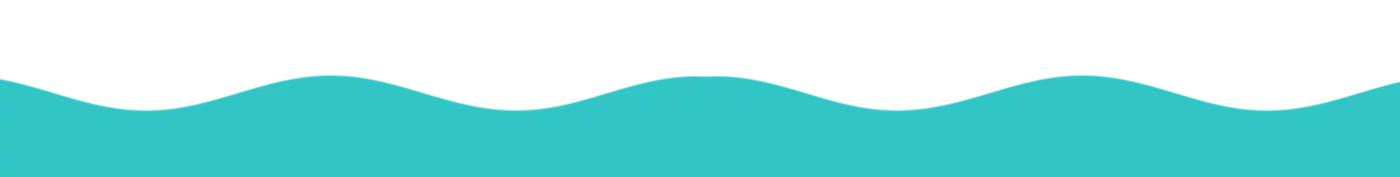
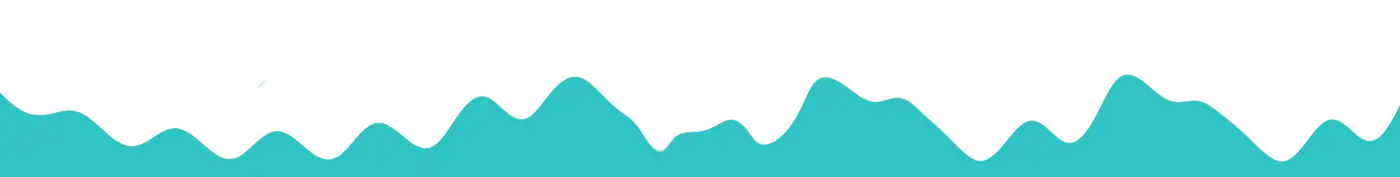
index.html updated

Changed region(s): [[0.0, 0.4237, 1.0, 0.904]]

diff --git a/scooter/index.html b/scooter/index.html
@@ -113,30 +113,68 @@
     </div>
 
     <!-- forecast -->
-    <div class=" forecast">
-      <!-- wave separator -->
-      <!-- <img src="images/wave2.svg" alt="" style="position: absolute; top:0; left: 0; width: 100%;"> -->
+    <div class="forecast">
+
+      <!-- forecast title -->
+
       <h2>Weather</h2>
-      <i class="fa-solid fa-temperature-high"></i>
-      <!-- today forecast -->
-      <div class="today-forecast">
-        <h3>Today</h3>
-        <div id="today-weather-icon"></div>
-        <p id="temperature">
-        <p id="description"></p>
-        <p id="humidity"></p>
+      <i class="fa-solid fa-temperature-three-quarters"></i>
+
+
+      <!-- wave separator -->
+      <img class="wave-separator" src="images/wave-1.webp" alt="Wave separator">
+
+      <!-- forecast-content -->
+      <div class="forecast-content">
+
+        <!-- today forecast -->
+        <div class="today-forecast">
+          <h3>Today</h3>
+          <div>
+            <div id="today-weather-icon"></div>
+            <p id="temperature">
+            <p id="description"></p>
+            <p id="humidity"></p>
+          </div>
+        </div>
+
+
+
+        <!-- next day forecast -->
+        <div class="next-day-forecast">
+          <h3>Tomorrow</h3>
+          <div>
+            <div id="next-day-weather-icon"></div>
+            <p id="next-day-temperature"></p>
+            <p id="next-day-description"></p>
+            <p id="next-day-humidity"></p>
+          </div>
+        </div>
+
+
       </div>
 
-      <!-- next day forecast -->
-      <div class="next-day-forecast">
-        <h3>Tomorrow</h3>
-        <div>
-          <div id="next-day-weather-icon"></div>
-          <p id="next-day-temperature"></p>
-          <p id="next-day-description"></p>
-          <p id="next-day-humidity"></p>
-        </div>
-      </div>
+      <!-- polaroid 2 -->
+      <!-- <div class="forecast-image-content-2">
+        <picture>
+          <source media="(max-width: 400px)" srcset="images/man-ride-atv-at-sand-small.webp">
+          <source media="(max-width: 600px)" srcset="images/man-ride-atv-at-sand-medium.webp">
+          <img src="images/man-ride-atv-at-sand-large.webp" alt="Man ride an atv at sand" width="800" height="800"
+            loading="lazy">
+        </picture>
+        <figcaption>Discover the adrenaline in the sand dunes!</figcaption>
+      </div> -->
+
+      <!-- polaroid 1 -->
+      <!-- <div class="forecast-image-content-1">
+        <picture>
+          <source media="(max-width: 400px)" srcset="images/people-having-fun-at-beach-small.webp">
+          <source media="(max-width: 600px)" srcset="images/people-having-fun-at-beach-medium.webp">
+          <img src="images/people-having-fun-at-beach-large.webp" alt="People having fun at beach" width="800"
+            height="800" loading="lazy">
+        </picture>
+        <figcaption>Snapshot of tomorrow!</figcaption>
+      </div> -->
 
     </div>
 

diff --git a/scooter/styles/base.css b/scooter/styles/base.css
@@ -28,7 +28,7 @@ h1, h2, h3, h4 {
   font-family: var(--headingText);
 }
 
-a, li, p, span, #hamburger-button {
+a, li, p, span, #hamburger-button, figcaption {
   font-family: var(--contentText);
   font-size: 1.7rem;
 }
@@ -49,6 +49,7 @@ h3 {
   background-color: var(--accent1);
   color: var(--text1);   
   padding: 0.5rem 1rem;
+  z-index: 1;
 }
 
 .close-banner {
@@ -244,8 +245,7 @@ body.hidden {
 /* rentals */
 
 .rentals {  
-  background-color: var(--accent1);
-  border-bottom: 3px solid var(--accent2);  
+  background-color: var(--accent1);   
   color: var(--text1);
   text-align: center;
   padding-top: 3rem; 
@@ -266,7 +266,7 @@ body.hidden {
 .rentals div {
   display: grid;
   grid-template-columns: 1fr;
-  gap: 2rem; 
+  gap: 1rem; 
   
 }
 
@@ -303,30 +303,46 @@ body.hidden {
   left: 0;    
 }
 
+.wave-separator {
+  position: absolute;
+  width: 100%;
+  transform: rotate(180deg);
+  top: 0;
+  left: 0;
+}
+
 /* forecast */
 
 .forecast {   
   background-image: url("../images/background-doddle.webp");
   background-color: var(--background3);
   text-align: center;
-  display: grid;
-  grid-template-columns: 1fr;
-  gap: 2rem;
   padding: 3rem 1rem;
-  position: relative;
+  position: relative; 
 }
 
 .forecast h2 {
-  border-bottom: 3px solid var(--accent2);  
-  margin: 0 auto;
+  margin: 0 auto 2rem auto;
+  border-bottom: 3px solid var(--accent2);
+  width: fit-content;
 }
 
 .forecast i {
   font-size: 5rem;
   color: var(--accent2);
+  margin-bottom: 2rem;
 }
 
-.today-forecast, .next-day-forecast div {       
+.forecast-content {
+  display: grid;
+  grid-template-columns: 1fr;
+  gap: 1rem;
+}
+.today-forecast p:first-of-type, .next-day-forecast p:first-of-type {
+  margin-bottom: 1rem;    
+}
+
+.today-forecast div, .next-day-forecast div {       
   display: flex;
   flex-direction: column;
   align-items: center;
@@ -337,17 +353,31 @@ body.hidden {
   display: block;  
 }
 
-#temperature { 
-  font-size: 5rem;
+#temperature, #next-day-temperature { 
+  font-size: 4rem;
   font-weight: 600;
-  padding-bottom: 1rem;
 }
 
 .today-forecast, .next-day-forecast {
   background-color: var(--accent1);
   border: 3px solid var(--background1);
   border-radius: var(--borderRadius);
-  padding: 2rem;  
+  padding: 1rem;  
+}
+
+.forecast-image-content-1, .forecast-image-content-2 {
+  position: relative;
+  padding: 1rem 1rem 7.5rem 1rem; 
+  background-color: var(--background3);
+  border: 3px solid var(--background1);
+}
+
+.forecast-image-content-1 img, .forecast-image-content-2 img  {
+  display: block;
+  width: 100%;
+  height: 100%;
+  object-fit: cover; 
+  margin-bottom: 1rem;  
 }
 
 /* footer */

diff --git a/scooter/styles/large.css b/scooter/styles/large.css
@@ -25,7 +25,7 @@
     display: none;
   }
   /* hero  */
-  .hero-label {
+   .hero-label {
     left: 39%;
     text-align: left;
   }
@@ -42,7 +42,7 @@
   .rentals div {
     grid-template-columns: 1fr 1fr 1fr;
     max-width: 1200px;    
-    margin: 0 auto 0;
+    margin: 0 auto;
   } 
   .rentals h2 {
     grid-column: 1/4;
@@ -65,51 +65,50 @@
     margin: 0;
   }
   /* forecast */
-  .forecast {             
-    grid-template-columns: 550px 1fr 1fr;    
-    /* border: 2px dashed var(--accent2); */
+  .forecast {
+    padding: 6rem;     
   }
-  .forecast h2 {
-    grid-column: 1/4;
-    grid-row: 1/2;
+  .forecast-content {  
+    /* border: 3px dashed red; */
+    max-width: 1200px;
+    margin: 0 auto;   
+    display: flex;
+    align-items: center;
+    justify-content: center;
+
   }
-  .forecast i {
-    grid-column: 1/4;
-    grid-row: 2/3;
+  .today-forecast div, .next-day-forecast div {
+    flex-direction: row;    
   }
-  .today-forecast {
-    grid-column: 1/2;
-    grid-row: 3/4;
-    display: grid;
-    grid-template-columns: 1fr 1fr;
+  .today-forecast p:first-of-type, .next-day-forecast p:first-of-type {
+    margin-bottom: 0; 
+    margin-right: 1rem;   
   }
-  .today-forecast h3 {
-    grid-column: 1/3;
-    grid-row: 1/2;
+
+  
+  
+  
+
+ 
+
+  .forecast-image-content-1 {
+    transform: rotate(-3deg);       
   }
-  #today-weather-icon {
-    grid-column: 1/2;
-    grid-row: 2/3;
+  .forecast-image-content-2 {
+    transform: rotate(3deg); 
   }
-  #temperature {
-    padding-bottom: 0;
+  .forecast-image-content-1, .forecast-image-content-2 {
+    cursor: pointer; 
+    width: 400px;
+    height: 500px;
+    margin: 0 auto;
   }
-  .next-day-forecast {
-    grid-column: 1/2;
-    grid-row: 4/5;    
-    
-  }
-  .next-day-forecast div {
-    flex-direction: row;
-    justify-content: center;    
-  }
-  .next-day-forecast p {
-    margin-right: 2rem;    
-  }
-  /* .photo {
-    grid-column: 3/4;
-    grid-row: 3/5;
-  } */
+  .forecast-image-content-1:hover, .forecast-image-content-2:hover {
+    transition: 0.5s ease-in-out; 
+    box-shadow: 10px 10px 10px var(--accent1);
+    transform: rotate(0);
+  }   
+  
   /* footer */ 
   .footer-main {
     display: grid;

diff --git a/scooter/scripts/forecast.js b/scooter/scripts/forecast.js
@@ -85,7 +85,7 @@ function displayNextDayForecast(data) {
     // Obtener la humedad del pronóstico del tiempo actual
     const hum = data[i].main.humidity;
     // Obtener los iconos que representan las condiciones meteorológicas del pronóstico del tiempo
-    const iconUrl = `https://openweathermap.org/img/wn/${data[i].weather[0].icon}@2x.png`;
+    const iconUrl = `https://openweathermap.org/img/wn/${data[i].weather[0].icon}@4x.png`;
 
     // Verificar si el día del pronóstico del tiempo es igual al día siguiente calculado
     // y si la hora del pronóstico del tiempo es 12:00 PM

diff --git a/scooter/styles/medium.css b/scooter/styles/medium.css
@@ -1,4 +1,5 @@
 @media screen and (min-width: 32.5em) {  
+  /* rentals */
   .rentals div {
     grid-template-columns: 1fr 1fr;    
     /* margin: 2rem;
@@ -25,5 +26,10 @@
     grid-column: 2/3;
     grid-row: 4/5;
     margin: 0 1rem 0 0;
+  }
+  /* forecast */
+  .forecast-content {
+    display: grid;
+    grid-template-columns: 1fr 1fr;
   }
 }
